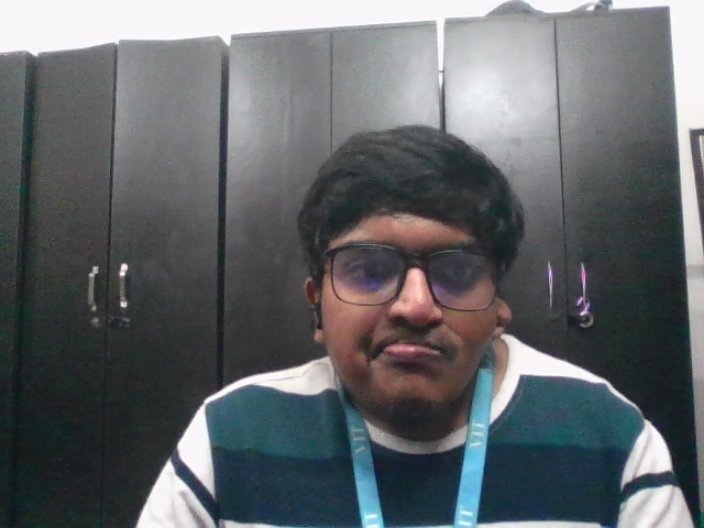
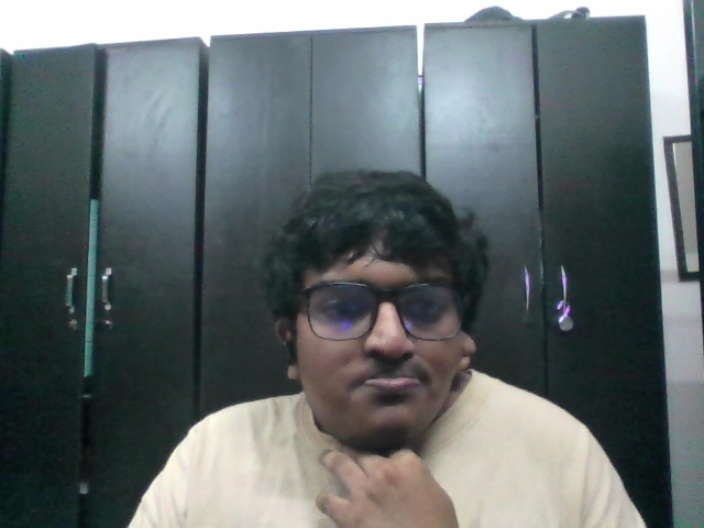
final fixes

diff --git a/app.py b/app.py
@@ -80,32 +80,38 @@ model = load_model()
 # --- Load features ---
 @st.cache_data
 def load_features():
+    import re
+
     features = pickle.load(open("features.pkl", "rb"))
     filenames = pickle.load(open("filenames.pkl", "rb"))
 
-    base_dir = "Celeb_Classifier/data"
     fixed_filenames = []
-
     for f in filenames:
-        f = f.replace("\\", "/")
-        base = os.path.basename(f)  # e.g., Amrita_Rao.109.jpg
+        f = f.replace("\\", "/")  # normalize slashes
 
-        # Try to infer the folder name from the file
-        folder_guess = base.split("_")[0]  # e.g., "Amrita" from "Amrita_Rao.109.jpg"
-        expected_path = os.path.join(base_dir, folder_guess, base)
+        # extract base filename (e.g., Nargis_Fakhri_014.jpg)
+        base = os.path.basename(f)
 
-        if os.path.exists(expected_path):
-            fixed_filenames.append(expected_path)
+        # derive correct folder name from the filename prefix
+        # e.g. Nargis_Fakhri_014.jpg → Nargis_Fakhri
+        folder_name = re.match(r"([A-Za-z_]+?)(?:_\d+)?\.[A-Za-z]+$", base)
+        if folder_name:
+            folder_name = folder_name.group(1)
         else:
-            # If folder_guess path doesn’t exist, search anywhere in /data/
-            matches = glob.glob(os.path.join(base_dir, "**", base), recursive=True)
-            if matches:
-                fixed_filenames.append(matches[0])  # pick the first found file
-            else:
-                print("Missing:", base)
-                fixed_filenames.append(expected_path)  # fallback for debugging
+            folder_name = base.split("_")[0]  # fallback
+
+        # rebuild correct full path
+        # new_path = os.path.join("Celeb_Classifier", "data", folder_name, base)
+        base_dir = os.path.dirname(os.path.abspath(__file__))  # directory where app.py lives
+        new_path = os.path.join(base_dir, "data", folder_name, base)
+
+        if not os.path.exists(new_path):
+            # optional debugging print
+            print(f"⚠ File not found: {new_path}")
+        fixed_filenames.append(new_path)
 
     return features, fixed_filenames
+
 
 
 feature_list, filenames = load_features()
